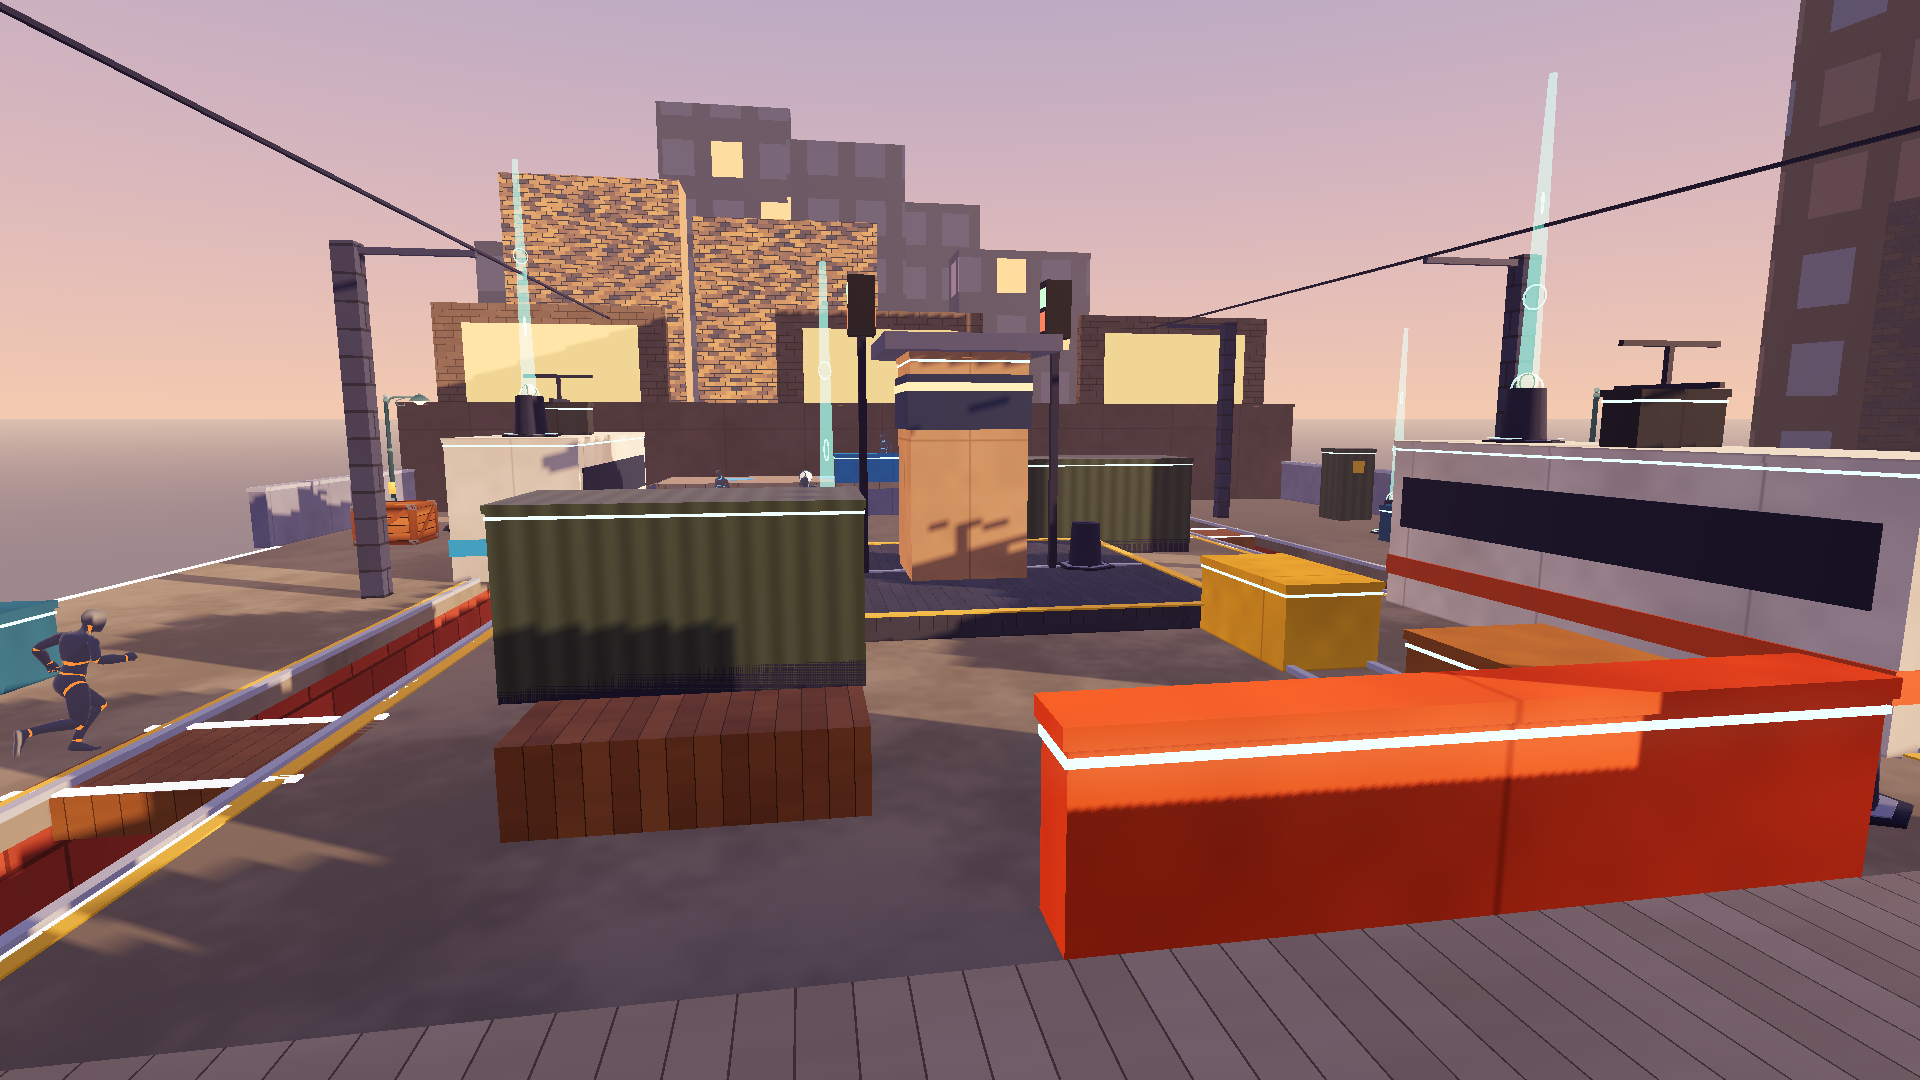
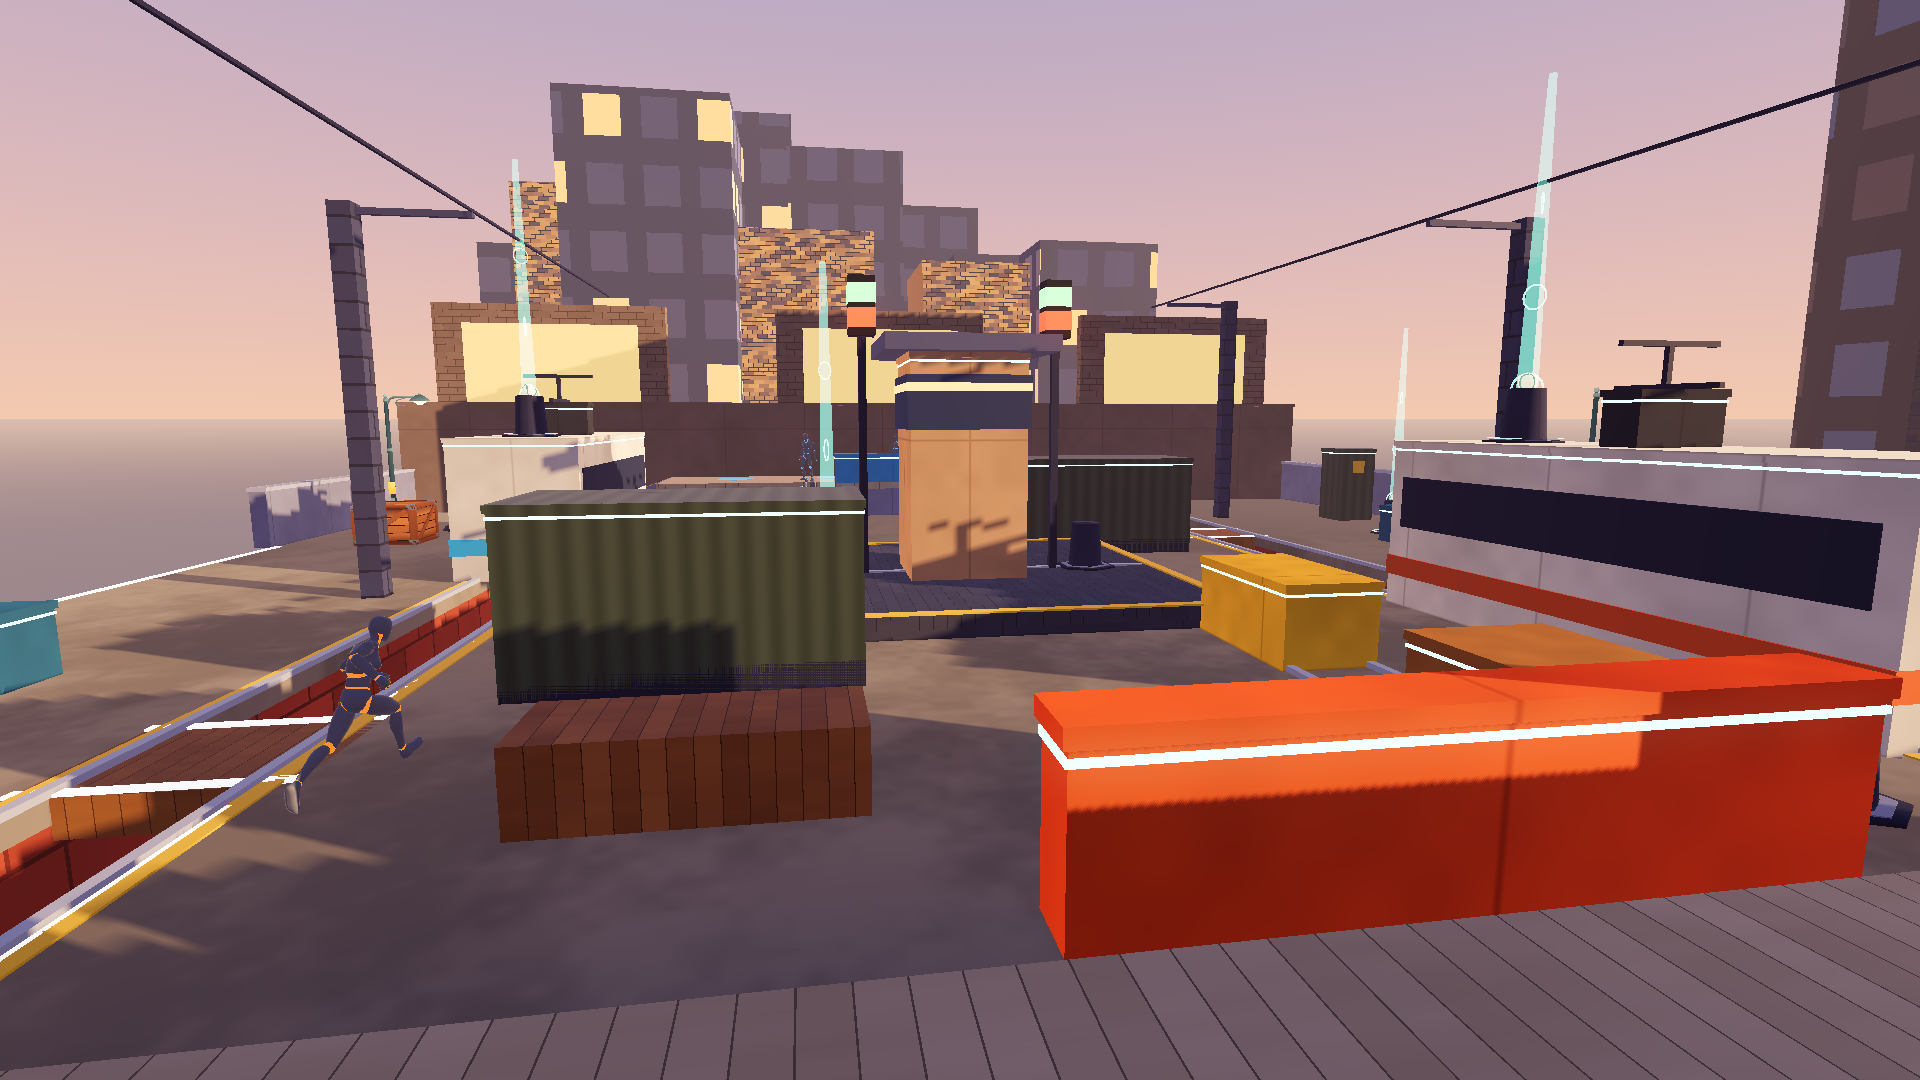
Le Dépôt, finitions de la 4e revue (8/10) : feux visibles des deux camps, caténaire plus haute
Feux de signal sur les quatre faces, fil de contact à 7,2 m (hors de la
vue d'épaule depuis le quai), immeubles du premier plan repoussés dans la
brume (tools/maps/arenas.py : skyline min_far).

Claude-Session: https://claude.ai/code/session_01JqDGHfY1Ly5jn7p42vhJBj

diff --git a/tools/maps/arenas.py b/tools/maps/arenas.py
@@ -71,7 +71,7 @@ class Arena:
             if color_b: m["color"] = color_b
             self.decor.append(m)
 
-    def skyline(self, bounds, seed, colors, ring=10, base=-14, brick=True, max_h=30, near_h=(4, 12)):
+    def skyline(self, bounds, seed, colors, ring=10, base=-14, brick=True, max_h=30, near_h=(4, 12), min_far=16):
         """Immeubles autour de l'arène (décor sans collision) : fenêtres, hauteurs variées, à 8-30 m des bords."""
         import random
         rnd = random.Random(seed)
@@ -80,7 +80,7 @@ class Arena:
         for k in range(ring):
             t = k / ring
             for side in range(4):
-                far = rnd.uniform(16, 34)
+                far = rnd.uniform(min_far, 34)
                 if side == 0: x, z = x0 + (x1 - x0) * t, z0 - far
                 elif side == 1: x, z = x1 + far, z0 + (z1 - z0) * t
                 elif side == 2: x, z = x1 - (x1 - x0) * t, z1 + far
@@ -339,8 +339,8 @@ def depot():
         for dx in (-0.85, 0.85):
             a.deco(x=x + dx, y=0, z=-6, sx=0.12, sy=0.08, sz=12, color="#B9BFCC", pattern=0)
     for x, z in ((-11.2, -1.2), (11.2, -11.6)):
-        a.block(f"poteau_{'g' if x < 0 else 'd'}", "wall", x, z, 0.4, 0.4, 6.6, 0, color="#4A5170")
-        a.deco(x=x + (2.2 if x < 0 else -2.2) / 2, y=6.4, z=z, sx=2.2, sy=0.12, sz=0.12, color="#4A5170", pattern=0)   # console jusqu'au fil
+        a.block(f"poteau_{'g' if x < 0 else 'd'}", "wall", x, z, 0.4, 0.4, 7.3, 0, color="#4A5170")
+        a.deco(x=x + (2.2 if x < 0 else -2.2) / 2, y=7.1, z=z, sx=2.2, sy=0.12, sz=0.12, color="#4A5170", pattern=0)   # console jusqu'au fil
     # Couverts du couloir central et des flancs.
     # Voie de service en x = -4 : draisine et touret alignés dessus (une ligne, pas un semis).
     a.deco(x=-4.6, y=0.01, z=-8.3, sx=0.12, sy=0.08, sz=8, color="#B9BFCC", pattern=0)
@@ -368,8 +368,8 @@ def depot():
     # Mâts de signal (décor) de part et d'autre : feux rouge et vert lisibles de loin.
     a.deco(x=1.9, y=0.4, z=0, sx=0.15, sy=5.6, sz=0.15, color="#2E3350", pattern=0)
     a.deco(x=1.9, y=4.95, z=0, sx=0.5, sy=1.1, sz=0.5, color="#1E2230", pattern=0)                  # tête de signal
-    a.deco(x=1.9, y=5.1, z=0, sx=0.52, sy=0.36, sz=0.36, color="#E0201A", glow=2.5, pattern=0)
-    a.deco(x=1.9, y=5.55, z=0, sx=0.52, sy=0.36, sz=0.36, color="#3BE07A", glow=2.0, pattern=0)
+    a.deco(x=1.9, y=5.1, z=0, sx=0.52, sy=0.36, sz=0.52, color="#E0201A", glow=2.5, pattern=0)
+    a.deco(x=1.9, y=5.55, z=0, sx=0.52, sy=0.36, sz=0.52, color="#3BE07A", glow=2.0, pattern=0)
     # Places : 4 par équipe sur le quai.
     for x, z in [(-2, -16.6), (2, -16.6), (-5.5, -16.2), (5.5, -16.2)]:
         a.spawn(x, z)
@@ -388,12 +388,12 @@ def depot():
         a.deco(mirror=False, x=24, y=-14, z=-z, sx=2.6, sy=3.0, sz=7, color="#E8E2D2")
         a.deco(mirror=False, x=24, y=-12.8, z=-z, sx=2.66, sy=0.9, sz=6.6, color="#2A3550", pattern=0)
     for x in (-9, 9):
-        a.deco(mirror=False, x=x, y=6.5, z=0, sx=0.05, sy=0.05, sz=26, color="#2E3350", pattern=0)   # fil de contact, tenu par les consoles
+        a.deco(mirror=False, x=x, y=7.2, z=0, sx=0.05, sy=0.05, sz=26, color="#2E3350", pattern=0)   # fil de contact, tenu par les consoles
     # Lampadaires au sodium : deux par moitié.
     for x, z in ((-15.5, -12.6), (15.8, -1.5)):
         a.deco(model="lampadaire", x=x, y=0, z=z, scale=1.0)
     a.skyline((-19, 19, -19, 19), 23, [("#4E5568", "#FFC46A"), ("#5A5A66", "#3A4258"), ("#46506A", "#FFC46A"), ("#5E5650", "#3A4258")], base=-14,
-              brick=True, max_h=24, near_h=(-5, 2))
+              brick=True, max_h=24, near_h=(-5, 2), min_far=20)
     a.write("depot", {
         "ambiance": "aube",
         "info": {"title": "Le Dépôt", "tagline": "Deux fosses, deux trams, trois couloirs.",
